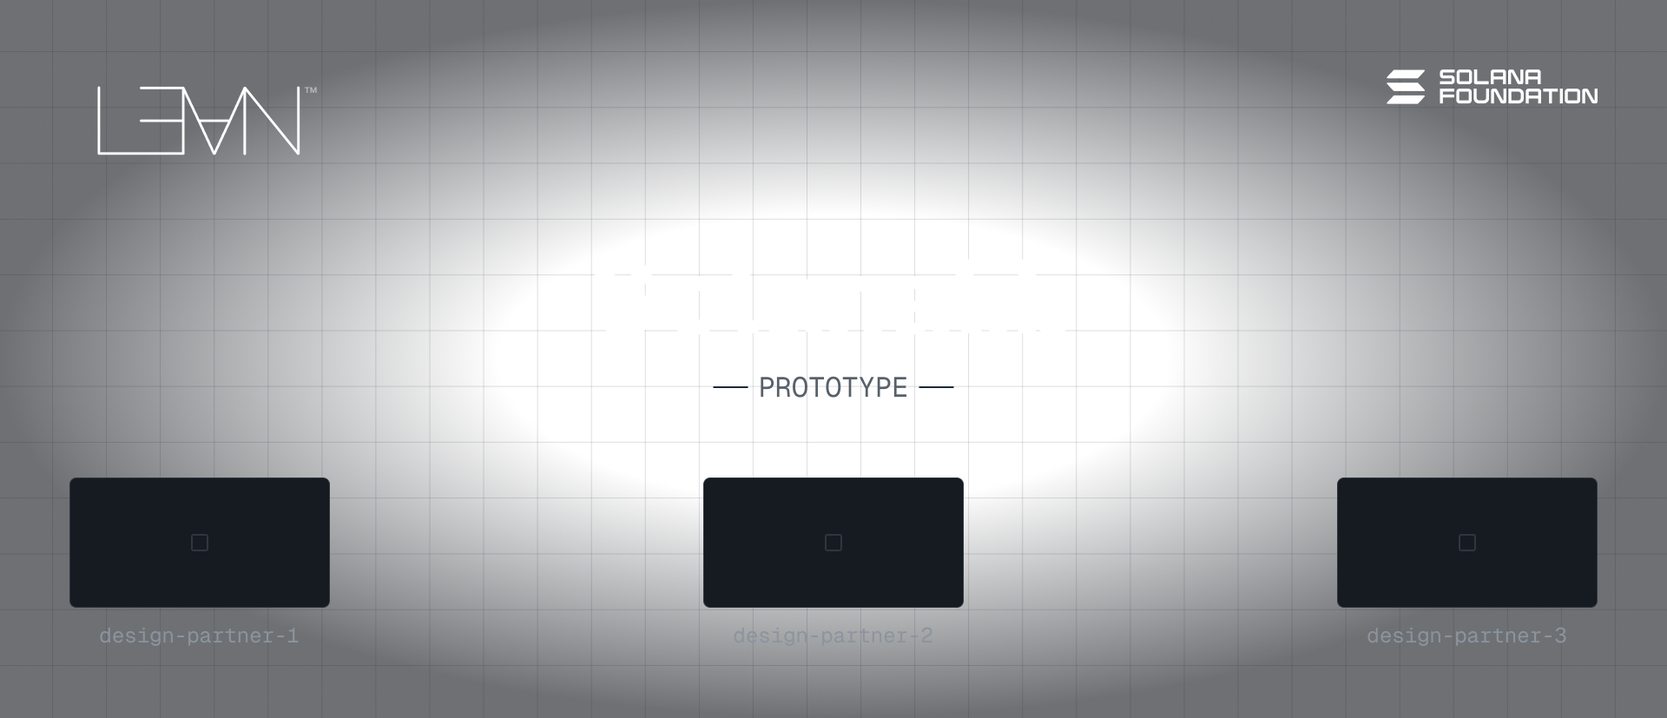
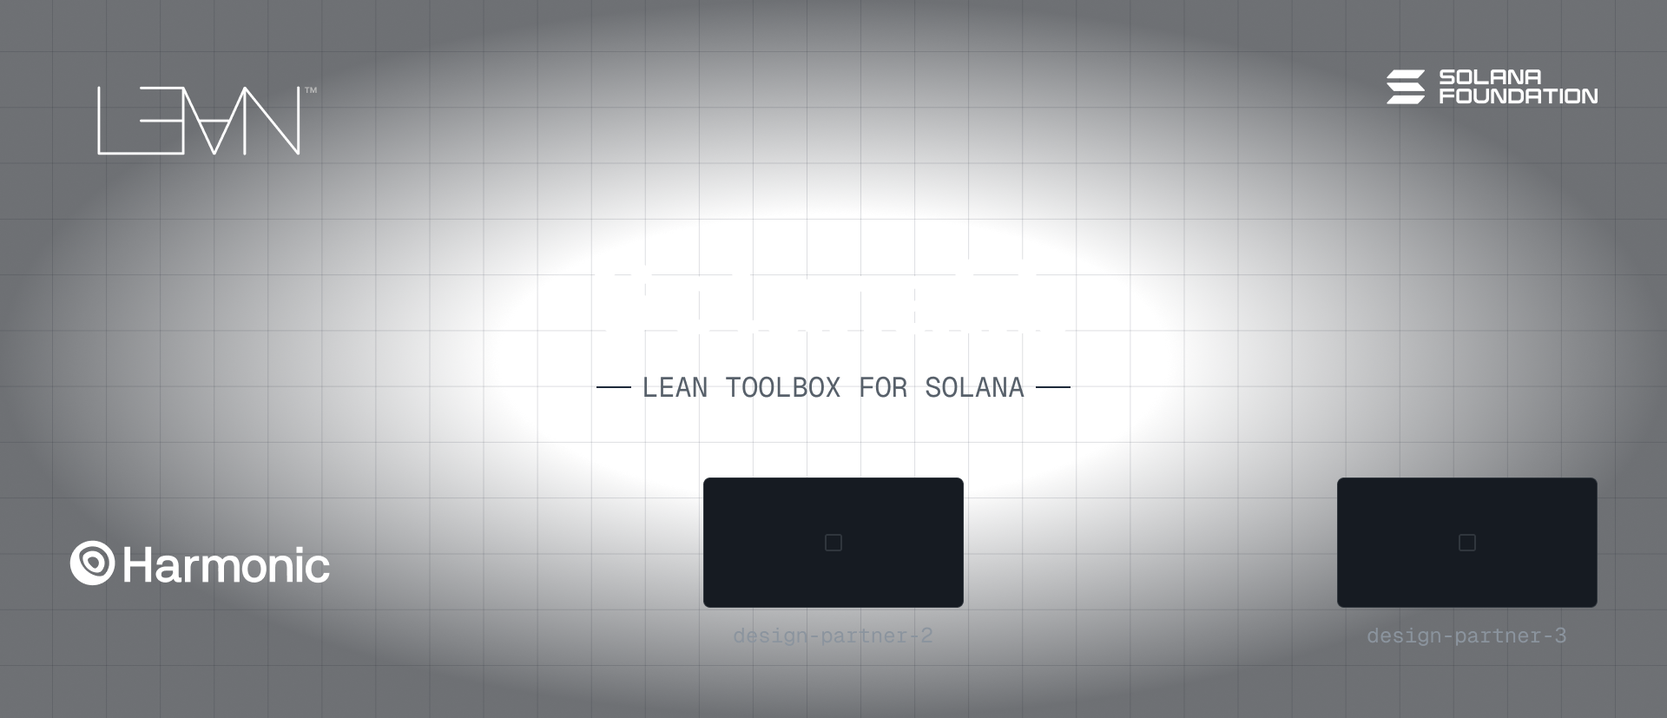
docs: update README (#8)

Changed region(s): [[0.0312, 0.6651, 0.2188, 0.8464], [0.375, 0.5139, 0.625, 0.5744], [0.0625, 0.8767, 0.1562, 0.9069]]

diff --git a/README.md b/README.md
@@ -2,7 +2,7 @@
   <picture>
     <source media="(prefers-color-scheme: dark)" srcset="https://github.com/solana-foundation/leanprover-solanalib/raw/main/docs/assets/banner-github-dark.png">
     <source media="(prefers-color-scheme: light)" srcset="https://github.com/solana-foundation/leanprover-solanalib/raw/main/docs/assets/banner-github-light.png">
-    <img alt="Solanalib" width="100%" src="https://github.com/solana-foundation/leanprover-solanalib/raw/main/docs/assets/banner-github-light.png">
+    <img alt="Solanalib: Lean toolbox for Solana" width="100%" src="https://github.com/solana-foundation/leanprover-solanalib/raw/main/docs/assets/banner-github-light.png">
   </picture>
 </div>
 
@@ -12,48 +12,78 @@
   <a href="LICENSE"><img alt="License: Apache-2.0" src="https://img.shields.io/badge/license-Apache--2.0-blue"></a>
 </p>
 
-**A [Lean 4](https://lean-lang.org/) library of formal models and verified theorems for Solana programs.** 
+**Solanalib is a [Lean 4](https://lean-lang.org/) library that models the Solana runtime and the Rust crates Solana programs are built on, so you can state and prove properties of a program without modeling Solana yourself.**
 
-Status: **purely experimental — exploring framework shape.**
+To prove anything about a Solana program you first need a precise account of what surrounds it: what an account is, when the runtime rejects a write, what a cross-program invocation does to the caller, what `spl-token` or Anchor returns for a given input. Solanalib is that account, written once, tested against the real implementations and shared. It aims to be for Solana what [Mathlib](https://leanprover-community.github.io/mathlib4_docs/) is for mathematics.
 
-The ambition is to be for Solana what [Mathlib](https://leanprover-community.github.io/mathlib4_docs/) is for mathematics — a shared, well-documented foundation that downstream verification work can build on without redefining the same primitives every time. Programs written in [Anchor](https://www.anchor-lang.com/), [Pinocchio](https://github.com/anza-xyz/pinocchio), or hand-rolled, are intended to be modelled against `Solanalib`'s formal primitives and proven correct.
+Status: **experimental.** The models are usable today; names and module layout may still change, so depend on a fixed commit.
 
 📚 **Generated docs:** <https://solana-foundation.github.io/leanprover-solanalib/>
 
 ---
 
-## Why
+## How it helps you
 
-Solana programs run with real assets at stake. Bugs in lending invariants, vesting curves, AMM math, PDA derivation, or token-supply accounting cost users — and code review is fundamentally limited as a defence: it scans for known patterns and misses what reviewers don't think to look for.
+| If you are | Solanalib gives you |
+| --- | --- |
+| **Verifying a program** as a developer or auditor | Runtime types and checks to state your invariants against, and contracts for the SDK calls your program makes. You write the proof about your logic; the definitions of accounts, rent, signers, CPI and token operations are already there. |
+| **Building a verification tool** or an AI proving agent | A shared target. Rust translated to Lean calls into `anchor-lang`, `pinocchio` or `spl-token`; Solanalib supplies a contract for each of those calls, so your tool does not ship its own model of the ecosystem. |
+| **Studying the runtime** | A readable, executable definition of transaction processing that follows Agave 4.3.2, with source notes that tie each module to the Rust it describes. |
 
-Formal verification flips the model. Instead of *reading* code looking for bugs, you *prove* the code matches a specification — a precise mathematical statement of intended behaviour. If the proof type-checks, the property holds *for every possible input*, not just the cases the reviewer happened to consider.
+## What is in it
 
-The bottleneck has historically been the cost of specs: writing them takes deep expertise, and every protocol has to reinvent the same primitives. `Solanalib` aims to lower that cost by providing the primitives — accounts, instructions, PDAs, common financial shapes — as reusable Lean definitions with theorems already proven about them.
+Everything lives in one Lake package, `solanalib`, on Lean 4.34.0 with the matching Mathlib. Import only the libraries you need.
 
-The role this library plays in the stack:
+### `Solanalib.Runtime`: the Solana runtime
 
+A model of transaction execution that follows [Agave 4.3.2](https://github.com/anza-xyz/agave/tree/a203300045b405f86c9c84308b2eae76af69ac3b): accounts and rent, transaction admission and fees, durable nonces, instruction execution, cross-program invocation, syscalls, program-derived addresses, sysvars, the program cache, and commit and rollback. It also supplies the `Pubkey`, `Account` and instruction types used by every other library here. See the [runtime guide](packages/solanalib-runtime/README.md).
+
+### `Solanalib.Specs.<Crate>`: 53 Rust crates
+
+Contracts for functions of the crates programs depend on. A contract relates the inputs and initial state of a function to its possible outcomes, including errors and panics.
+
+| Area | Crates |
+| --- | --- |
+| Frameworks | `anchor-lang`, `anchor-lang-error`, `anchor-spl`, `pinocchio` and its `system`, `token`, `token-2022`, `associated-token-account` and `log` companions |
+| Tokens | `spl-token`, `spl-token-2022`, their interface crates, associated token account, token metadata, transfer hook, `spl-memo`, `spl-pod` |
+| Serialization | `borsh`, `bytemuck` |
+| Oracles | `pyth-solana-receiver-sdk`, `pythnet-sdk`, `switchboard-on-demand` |
+| Solana SDK | 29 `solana-*` crates, including `solana-program`, `solana-account-info`, `solana-cpi`, `solana-instruction`, `solana-pubkey`, `solana-sysvar`, `solana-system-interface` and `solana-stake-interface` |
+
+Each crate root covers a listed subset of its crate, not every function. The [library catalog](packages/solanalib-specs/LIBRARIES.md) names the modeled functions, and [version compatibility](packages/solanalib-specs/VERSION_COMPATIBILITY.md) records the releases each contract was reviewed against.
+
+### `Solanalib.Contracts`: the contract vocabulary
+
+The library-neutral definitions the crate models are written in: preconditions, outcomes, callbacks, capabilities and versioning. Use it to write contracts for crates that are not covered yet. See the [contracts guide](packages/solanalib-contracts/README.md).
+
+### `Solanalib`: theorems and arithmetic
+
+The root library proves [`transfer_preserves_total`](Solanalib/Transfer.lean): every successful System transfer keeps the total lamports of the transaction unchanged, including when account indices alias. It also carries fixed-point arithmetic (`Numeric`) and recurring DeFi shapes with their proofs (`Finance`): decay and growth curves, compound interest and a withdrawal cap.
+
+## A first proof
+
+The [worked example](examples/SolanalibTest/Examples/CheckedTransfer.lean) connects an SDK contract to runtime execution. Take any instruction that satisfies the `solana-system-interface` transfer contract for seven lamports. Running the System program of the runtime on it succeeds, debits and credits the right accounts, and conserves lamports:
+
+```lean
+theorem checked_transfer (prims : Prims) (instruction : CpiInstruction)
+    (constructed : transfer_contract.ensures () args instruction ()) :
+    systemProcess mainnet prims before (frameOf instruction) = some (.ok after) ∧
+    (after.acct 0).lamports = 93 ∧ (after.acct 1).lamports = 27 ∧
+    after.lamportSum = before.lamportSum
 ```
-┌──────────────────────────────────────────────────────────────┐
-│  ON-CHAIN: Rust/Anchor/Pinocchio → compiled sBPF bytecode     │
-└───────────────┬──────────────────────────────┬───────────────┘
-                │ source-level                  │ artifact-level
-┌───────────────▼──────────────────────────────▼───────────────┐
-│  SPEC: Solanalib formal models in Lean 4                      │
-│    · high-level layer  — accounts, instructions, finance …    │
-│    · Solanalib.SBPF    — the sBPF ISA semantics: the machine  │
-│                          the deployed bytecode actually runs  │
-└──────────────────────────────────────────────────────────────┘
+
+A second theorem removes the signer flag and proves that the runtime answers `MissingRequiredSignature`. Both proofs are checked by the Lean kernel, and CI builds the file with warnings as errors. The [getting-started guide](docs/getting-started.md) walks through it line by line.
+
+## Use it in your project
+
+Add the package to your `lakefile.lean` at a fixed commit:
+
+```lean
+require solanalib from git
+  "https://github.com/solana-foundation/leanprover-solanalib" @ "<commit>"
 ```
 
-Solanalib lives entirely at the spec layer — it doesn't run on-chain. But it now models *both* ends of the refinement: the high-level shapes a protocol's logic is proven against, **and** the sBPF instruction-set semantics those programs compile down to. That lower anchor (`Solanalib.SBPF`) is a Lean port of the [OOPSLA 2025 Isabelle/HOL formalisation](https://dl.acm.org/doi/10.1145/3720414), validated against a reference VM (see [`spinoza`](https://github.com/lgalabru/spinoza), the companion harness). The eventual goal is an end-to-end chain from deployed bytecode up to protocol invariants.
-
----
-
-## Architecture
-
-The single `solanalib` Lake package uses Lean 4.34.0 and matching Mathlib. Its separately selectable [`Solanalib.Runtime`](packages/solanalib-runtime/README.md) library supplies the shared Solana public-key, account and instruction types. Runtime and SDK developments use these types. Every library under `Solanalib` or `SolanalibTest` shares the root artifact directory, so ordinary Lean imports work across the full library. Runtime account balances are `Nat` values; `Account.WF` requires the `u64` bound alongside the data-length and rent-epoch bounds.
-
-The shared [`Solanalib.Contracts`](packages/solanalib-contracts/README.md) library defines `Solanalib.Contracts.Model`. The [SDK libraries](packages/solanalib-specs/README.md) add 53 SDK and framework crate roots plus a shared core, each with a separate scenario library. Their Lean imports use the contracts and runtime vocabulary. All are selectable targets in the root package; the directories under `packages/` organize their sources. Import the required root explicitly, for example:
+Then import what you need:
 
 ```lean
 import Solanalib.Runtime
@@ -61,208 +91,57 @@ import Solanalib.Contracts
 import Solanalib.Specs.PinocchioToken
 ```
 
-The [library catalog](packages/solanalib-specs/LIBRARIES.md) records each modeled subset and its tests. Closed model proofs and native differential recordings support their stated scope; Rust implementation proofs and compiler bindings remain separate work.
+## What the models are checked against
 
-The [authoring standard](docs/model-standard.md) and [generated gap index](docs/model-gaps.md) describe how to maintain their claims and tests. Require an immutable Git revision to use the models with their recorded dependency pins.
+A model is only useful if it matches the code it describes. Each one comes with evidence you can rerun:
 
-The root library combines arithmetic and finance developments, the sBPF machine model, and a conservation theorem for the checked System transfer:
+- **Recorded native results.** The runtime model replays 79 cases recorded from native Agave. The crate models replay 12,276 records from the real Rust crates, with 2,673 negative controls that must fail.
+- **Scenario tests.** Thirteen runtime scenarios and a scenario library for each crate, all built with warnings as errors.
+- **Source notes.** Every model module is tied to the pinned Rust source it was reviewed against, by file hash and line anchor.
+- **Axiom audit.** The runtime and crate model proofs depend only on `propext`, `Classical.choice` and `Quot.sound`, with no `sorry`.
 
-```
-Solanalib/
-├── Init.lean              ← Mathlib linter activation (imports-only)
-├── Transfer.lean          ← System transfer conservation on runtime types
-├── Primitives/            ← lamport and time notations
-│   ├── Lamports.lean           UInt64 (= Lamports) + Nat (= LamportsUnchecked)
-│   └── Time.lean               UInt64 (= Timestamp) + Nat (= TimestampUnchecked)
-├── Numeric/               ← fixed-point + arithmetic infrastructure
-│   └── Fraction.lean           Q68.60 (Nat-backed spec; Fraction128 future)
-├── Finance/               ← domain abstractions for DeFi shapes
-│   ├── Decay.lean                  WindowedDecay bundled structure
-│   ├── Growth.lean                 GrowthCurve (windowed dual of WindowedDecay)
-│   ├── LinearDecay.lean            first concrete decay shape
-│   ├── MonotoneSequence.lean       unbounded monotone-up shape
-│   ├── CompoundInterest.lean       discrete compounding as a MonotoneSequence
-│   └── WithdrawalCap.lean          stateful sliding-window rate limiter
-└── SBPF/                  ← the sBPF instruction-set semantics (machine layer)
-    ├── CommType.lean               BitVec machine words (U4 … U128) + byte (de)ser
-    ├── Syntax.lean                 BpfInstruction (22 forms) + registers/ops/version
-    ├── Value.lean                  CompCert-style memory value
-    ├── Memory.lean                 byte-addressable memory + loadv / storev
-    ├── Decoder.lean                bytecode → BpfInstruction (full opcode table)
-    ├── State.lean                  registers, call stack, BpfState result
-    ├── Interpreter.lean            step + fuel-bounded bpfInterp
-    └── Verifier.lean               verifyInstr + step-safety theorem (Lemma 6.4)
-```
+The boundary is stated plainly. The contracts are mathematical models of pinned releases. The evidence above supports their correspondence with the Rust code; it is not a proof about the Rust implementations or the compiled program. The runtime [trust boundary](packages/solanalib-runtime/TRUST.md) lists what the bank is assumed to supply, [BINDINGS.md](packages/solanalib-specs/BINDINGS.md) lists what a binding to real Rust must establish, and the [gap index](docs/model-gaps.md) lists every known gap.
 
-The boundaries are deliberate:
+## Who uses it
 
-- **`Primitives/`** keeps the lamport and time notations used by arithmetic and finance. Solana account, key and instruction values come from **`Solanalib.Runtime`** in `packages/solanalib-runtime/`.
-- **`Numeric/`** is the numeric backbone — every fixed-point or refined-int type belongs here, separate from domain code so it stays reusable.
-- **`Transfer.lean`** proves `Solanalib.Runtime.transfer_preserves_total` for every successful `sysTransfer`, including aliased account indices. The success premise includes the actual runtime checks; the proof does not redefine the transfer.
-- **`Finance/`** is the first domain layer — financial shapes that recur across DeFi: decay curves, growth curves, and (future) AMM math, lending invariants, oracle aggregation.
-- **`SBPF/`** is the machine layer — a faithful Lean port of the [OOPSLA 2025](https://dl.acm.org/doi/10.1145/3720414) Isabelle/HOL sBPF semantics (all 22 instruction forms, the decoder, the small-step interpreter, and the verifier). Unlike the `Nat`-backed spec layers above, it models bit-precise machine words with `BitVec` (signed division, sign-extension, shifts), because the bytecode it describes is bit-precise. It is the concrete machine the high-level shapes ultimately refine down to.
+- **[Harmonic](https://harmonic.fun)** contributed the runtime and library models and uses Solanalib under the hood to verify Solana programs.
+- **[Lusterna](https://lusterna.sh)**, by Certora, has AI agents translate Rust to Lean 4 and prove properties that the Lean kernel checks. It uses Solanalib under the hood for Solana programs.
 
-The finance and numeric layers use the lamport and time notations plus `Init.lean`. `Transfer.lean` imports the runtime System processor. `SBPF/` is self-contained (it models the machine, not the protocol). For example, promoting `Fraction` to a bounded `Fraction128` does not force `Finance/Decay.lean` to change.
+## Build and check
 
----
-
-## Design patterns
-
-These are the patterns the codebase has converged on. They're documented in detail in [`skills/lean-best-practices/SKILL.md`](skills/lean-best-practices/SKILL.md).
-
-### 1. **Bundled structures, not type-classes**, for domain shapes
-
-When a concept has several properties that must hold together (e.g. "a function that decays from peak to zero, monotonically, in a window"), we use a **bundled structure** with the function and proofs embedded:
-
-```lean
-structure WindowedDecay where
-  tBegin tEnd peak : Nat
-  apply : Nat → Nat
-  bounded : ∀ t, apply t ≤ peak
-  at_begin : tBegin < tEnd → apply tBegin = peak
-  at_end : apply tEnd = 0
-  antitone_in_window : …
-```
-
-Concrete shapes provide a `toX` constructor that constructs the bundle by proving each obligation:
-
-```lean
-def LinearDecay.toWindowedDecay (tBegin tEnd peak : Nat) : WindowedDecay := { … }
-```
-
-Generic theorems are methods on the structure (`d.complementary`, `d.complementary_le_peak`). No type-class elaboration surprises; matches Mathlib's `OrderHom`, `MulHom`, `LinearMap`.
-
-### 2. **Bounded types live alongside unbounded spec aliases**
-
-Solana fields are `u64` on-chain; mathematical reasoning wants unbounded `Nat`. We expose both:
-
-```lean
-notation "Lamports"          => UInt64   -- strict on-chain shape
-notation "LamportsUnchecked" => Nat      -- spec layer; omega-friendly
-```
-
-These notations support numeric and finance proofs. Runtime accounts use `Nat` balances directly, with `Account.WF` recording `lamports < U64_LIMIT`. The checked setters return errors for underflow, overflow or invalid mutation privileges. A theorem about a successful call uses that real result as its premise:
-
-```lean
-theorem transfer_preserves_total
-    (transferred : sysTransfer context before source destination amount = .ok after) :
-    after.lamportSum = before.lamportSum := …
-```
-
-The [complete theorem](Solanalib/Transfer.lean) proves this for arbitrary states and amounts. Numeric source-representation bounds remain separate when the mathematical result does not need them.
-
-### 3. **`@[ext]` on every structure, `@[simp]` on every projection**
-
-Lets `ext; simp` close most structural-equality proofs uniformly. Skim any test file for examples.
-
-### 4. **Layered model: spec layer in `Nat`, bounded refinement separate**
-
-`Fraction = Q68.60` is currently `Nat`-backed at the spec layer for arithmetic clarity. The bounded `Fraction128` refinement (matching the on-chain `u128` shape) lives in a separate type with `.toNat` bridge lemmas — same architectural pattern as `Lamports` / `LamportsUnchecked`. This follows the [seL4](https://sel4.systems/) / [CompCert](https://compcert.org/) discipline: prove on the abstract model, refine to the bounded representation as a separate step.
-
----
-
-## Quick-start
-
-Install [`elan`](https://github.com/leanprover/elan), [`just`](https://github.com/casey/just) and [`uv`](https://docs.astral.sh/uv/getting-started/installation/), then run commands from this directory. The [getting-started guide](docs/getting-started.md) walks through a checked System-transfer proof using the runtime and an SDK contract.
+Install [`elan`](https://github.com/leanprover/elan), [`just`](https://github.com/casey/just) and [`uv`](https://docs.astral.sh/uv/getting-started/installation/), then run from the repository root:
 
 ```sh
 just setup             # fetch committed dependencies, Mathlib cache and Python tools
-just build             # root library and sBPF oracle
+just build             # root library
 just test              # root regressions and System transfer conservation
-just test-examples     # the worked tutorial, with warnings as errors
-just test-runtime      # all thirteen runtime scenarios and offline controls
-just test-specs        # contracts and every SDK production/scenario library
-just test-conformance  # both authenticated recordings, replay and negative controls
+just test-examples     # the worked example, with warnings as errors
+just test-runtime      # runtime scenarios and offline controls
+just test-specs        # contracts and every crate library
+just test-conformance  # replay both native recordings with negative controls
 just audit             # proof, source, generator, ownership and loading checks
-just docs              # the complete production documentation site
-just check-all         # every regular suite above
+just docs              # the documentation site
+just check-all         # every suite above
 ```
 
-The [complete test index](docs/tests.md) lists every scenario, checker, Python control suite and native driver. Fresh native reproduction has separate `test-native-runtime` and `test-native-library` recipes; the [extension walkthroughs](docs/extending.md) give their archive, compiler and evidence arguments. Use `just --list` for all targets.
-
-CI checks the root library, tutorial, runtime, contracts, all 108 SDK production and scenario libraries, generated evidence, source audits and both recorded conformance suites on pull requests and pushes to main. Lean builds use `--wfail`. The [CI guide](docs/ci.md) describes the jobs, cache inputs and configured timeouts.
-
----
-
-## What's in it today
-
-Inventory of the verified surface as of this commit:
-
-| Module | Definitions | Theorems |
-|---|---|---|
-| `Primitives.Lamports` | `Lamports`, `LamportsUnchecked`, `Lamports.perSol` | — |
-| `Numeric.Fraction` | `Fraction`, `scale`, `zero`, `one`, `fromNat`, `toFloor`, `add`, `sub`, `mul`, `div`, `ofLamports`, `toLamports?`, order instances | 14 (monoid, ordering, round-trip, sub/add cancel, div_one) |
-| `Runtime.Basic`, `Runtime.Account` | Fixed-size `Pubkey`, `Account`, `Account.WF`, rent state | Runtime representations and account/rent facts |
-| `Runtime.Message`, `Runtime.Syscall`, `Runtime.Context` | Compiled instructions, `CpiInstruction`, `Frame`, `TxState` | Preparation, privilege and execution facts in the runtime libraries |
-| `Runtime.System`, `Transfer` | `sysTransfer`, checked debit and credit | `transfer_preserves_total`, `sysTransferVerified_preserves_total` |
-| `Finance.Decay` | `WindowedDecay`, `WindowedDecay.complementary` | 4 (inherited via composition) |
-| `Primitives.Time` | `Timestamp`, `TimestampUnchecked` | — |
-| `Finance.LinearDecay` | `LinearDecay.value`, `LinearDecay.toWindowedDecay` | 4 (P1–P3b: bounded, antitone, value-at-begin, value-at-end) |
-| `Finance.MonotoneSequence` | `MonotoneSequence` | 2 (`apply_zero_le`, `apply_le_of_le`) |
-| `Finance.CompoundInterest` | `balance`, `toMonotoneSequence` | 5 (boundary, unit-multiplier identity, one-step monotonicity, multi-step monotonicity, balance ≥ principal) |
-| `Finance.WithdrawalCap` | `WithdrawalCap`, `Invariant`, `IsElapsed`, `remaining`, `TryAdd`, `tryAdd` | 5 (`remaining_le_capacity`, `tryAdd_preserves_invariant`, `tryAdd_rejects_over_cap_midwindow` + `_at_reset`, `interval_reset_idempotent`) |
-| `Finance.Growth` | `GrowthCurve`, `WindowedDecay.toComplementaryGrowthCurve` | 4 (embedded; inherited at constructor time) |
-| `SBPF.{CommType,Syntax,Value,Memory}` | `BitVec` words, `BpfInstruction` (22 forms), `Val`, `loadv`/`storev` | data layer |
-| `SBPF.Decoder` | `decode`, `findInstr` (full opcode table) | round-trip tests |
-| `SBPF.Interpreter` | `step`, `bpfInterp` + per-class evaluators | differential testing (below) |
-| `SBPF.Verifier` | `verifyInstr`, `step_ne_err` (Lemma 6.4) | 9 |
-
-Run `scripts/coverage.sh` for the live def/theorem tally.
-
-The two layers are validated differently, on purpose. The **high-level / finance** shapes carry per-definition theorems — a high theorem-to-def ratio there is the signal that we're proving properties faster than we add surface. The **`SBPF/` machine layer** is mostly executable definitions (the interpreter is a faithful model, not a thing to prove theorems *about* per se); its correctness is established two ways instead: (1) the `step_ne_err` **safety theorem** — a verifier-accepted instruction never faults to the `err` state ([Lemma 6.4 of the paper](https://dl.acm.org/doi/10.1145/3720414)) — and (2) **differential testing** against a reference sBPF VM via [`spinoza`](https://github.com/lgalabru/spinoza), which has run tens of thousands of randomized programs through both this Lean interpreter and the VM with zero divergences.
-
----
-
-## Roadmap
-
-Listed roughly in order of how foundational they are; not all need to be done before the library is useful, but all are flagged as known gaps.
-
-### Numeric foundation
-
-- [ ] **`Fraction.mul_assoc` error bound.** Truncating `bits / scale` after each multiplication introduces ≤ 1 ULP of error; left-associative and right-associative multiplications can differ by `(a + c) / scale` in the worst case. The theorem statement is straightforward; the proof needs careful `Nat` lemmas about double-truncation.
-- [ ] **`Fraction128` bounded refinement.** Mirror of the `Lamports` / `LamportsUnchecked` story: a `UInt128`-backed `Fraction128` plus `.toNat` bridge. Lean 4 doesn't have native `UInt128`; modelled as `Fin (2^128)` or a `(lo, hi)` `UInt64` pair.
-- [ ] **`Fraction.divCeil`** — round-up variant for slippage / collateralisation calculations.
-- [ ] **Pow / `Real.exp` correspondence** — for compound interest, we'll want a theorem bounding `pow_fraction r n` against the mathematical `e^(r·n)`. Requires importing more of Mathlib.
-
-### Domain primitives
-
-- [x] **`Finance.CompoundInterest`** — landed: discrete-compounding `balance` consuming a `Fraction` multiplier, bundled into a `MonotoneSequence`. Open follow-up: truncated-Taylor approximation matching Kamino's `approximate_compounded_interest`, plus an error-bound theorem connecting the approximation to the exact compounding modelled here.
-- [x] **`Finance.WithdrawalCap`** — landed: stateful sliding-window rate limiter; four theorems pin the bug classes auditors check for (saturation, invariant escape, off-by-one on the boundary, missed accumulator reset on interval rollover).
-- [ ] **`Finance.AMM`** — constant-product (`x · y = k`), then weighted pools, then concentrated liquidity. `IsAMM` becomes a `class` (this is one of the places where typeclass dispatch genuinely earns its keep — multiple instance types share an interface).
-- [ ] **`Finance.Lending`** — collateralisation-ratio invariants, liquidation conditions, interest accrual.
-- [ ] **`Primitives.Slot`, `Primitives.Epoch`** — `UInt64`-backed clock primitives.
-- [ ] **`Primitives.Hash`** — 32-byte cryptographic hash with collision-resistance as an axiom (for unsigned theorems) and refinement to specific hash functions (SHA-256, Keccak) later.
-
-### Solana semantics
-
-- [x] **Shared runtime types and transfer conservation** — public keys, accounts and instruction values use `Solanalib.Runtime`; [System transfer conservation](Solanalib/Transfer.lean) follows from successful checked execution and covers aliased indices.
-
-- [x] **PDA model** — [`Solanalib.Runtime.Prims`](packages/solanalib-runtime/Solanalib/Runtime/Prims.lean) defines address derivation and bump search. Cryptographic functions remain explicit parameters; this does not verify a concrete hash or curve implementation.
-- [x] **Sysvar model** — [`Solanalib.Runtime.Sysvar`](packages/solanalib-runtime/Solanalib/Runtime/Sysvar.lean) and [`Profile`](packages/solanalib-runtime/Solanalib/Runtime/Profile.lean) model the selected clock/rent and instructions-sysvar behavior. Bank values and profile correspondence remain assumptions.
-- [x] **Program-result model** — [`Solanalib.Runtime.Error`](packages/solanalib-runtime/Solanalib/Runtime/Error.lean) supplies instruction and transaction errors used by the `Except` outcomes of the model. Source ABI bindings are separate obligations.
-- [x] **Transaction model** — [`Solanalib.Runtime.Transaction`](packages/solanalib-runtime/Solanalib/Runtime/Transaction.lean) models admission, execution, fees, commit and rollback. The [trust boundary](packages/solanalib-runtime/TRUST.md) records bank-supplied checks and the remaining successful durable-nonce advancement gap.
-- [x] **CPI runtime model** — [`Solanalib.Runtime.Cpi`](packages/solanalib-runtime/Solanalib/Runtime/Cpi.lean) and [`Exec`](packages/solanalib-runtime/Solanalib/Runtime/Exec.lean) model preparation, account synchronization and invocation. Callee behavior stays opaque behind explicit contracts; a callee effect requires its own implementation proof.
-
-### Execution refinement and verification
-
-- [x] **sBPF semantics in Lean (`Solanalib.SBPF`).** Landed: a Lean port of the [OOPSLA 2025 Isabelle/HOL formalisation](https://dl.acm.org/doi/10.1145/3720414) — all 22 instruction forms, the decoder, the small-step interpreter, and the verifier with the `step_ne_err` safety theorem (Lemma 6.4). Validated against a reference VM through the [`spinoza`](https://github.com/lgalabru/spinoza) harness (`spinoza validate`), which differentially tests the Lean interpreter against an executable sBPF VM; `spinoza lift` emits a deployed program's `.text` as an importable `BpfBin` term.
-- [ ] **Refinement from `SBPF/` up to the spec layers.** The pieces exist at both ends; the open work is the connecting theorem — e.g. a lifted program's `bpfInterp` result preserves a `Finance.WithdrawalCap` invariant. Also outstanding from the port: the x86-64 JIT correspondence, and reconciling the PQR high-multiply edge case against a second oracle (agave `solana-sbpf`).
-- [ ] **Aeneas integration (source-level path).** The complement to the artifact-level sBPF route above: pick one pure-math Rust function (e.g. `kfarms::get_withdrawal_penalty_bps`), run `cargo charon --preset=aeneas`, run `aeneas -backend lean`, import the generated Lean, prove `theorem rust_impl_refines_spec`. If this works end-to-end on one realistic module, we have a defensible refinement story for the algorithmic core of Solana programs.
-
-### Library hygiene
-
-- [ ] **`@[simps]` integration.** Currently we hand-write projection lemmas — Mathlib's `@[simps]` macro auto-generates them. Saves boilerplate as the codebase grows.
-- [ ] **`shake` integration.** Mathlib's unused-imports detector. Deferred because the current `notation`-heavy style doesn't play well with shake's import-usage analysis; revisit when we have ≥ 10 leaf modules.
-- [ ] **Mathlib version-bump automation.** `update.yml` workflow currently runs `lake update` monthly; add a follow-on step that bumps `lean-toolchain` to whatever Mathlib pins.
-
----
+The [test index](docs/tests.md) lists every scenario and checker, and the [CI guide](docs/ci.md) describes the jobs that run on pull requests. Use `just --list` for all targets.
 
 ## Contributing
 
-Read [CONTRIBUTING.md](CONTRIBUTING.md) for model boundaries, source review, witnesses, style, copyright and signed commits. Follow [Extending Solanalib](docs/extending.md) for complete runtime and SDK contribution walkthroughs, including generated evidence, native replay and gap records.
-
----
+Missing a crate or a function? [Extending Solanalib](docs/extending.md) walks through adding a runtime rule or an SDK contract with its tests and native evidence. Read [CONTRIBUTING.md](CONTRIBUTING.md) for model boundaries, source review, style and signed commits, and the [model standard](docs/model-standard.md) for what a model must record.
 
 ## License
 
 Apache-2.0. See [`LICENSE`](LICENSE).
+
+---
+
+<p align="center">
+  <a href="https://solana-foundation.github.io/leanprover-solanalib/">Docs</a> ·
+  <a href="docs/getting-started.md">Getting started</a> ·
+  <a href="packages/solanalib-specs/LIBRARIES.md">Library catalog</a> ·
+  <a href="https://harmonic.fun">Harmonic</a> ·
+  <a href="https://lusterna.sh">Lusterna</a> ·
+  <a href="https://lean-lang.org/">Lean</a> ·
+  <a href="https://solana.org">Solana Foundation</a>
+</p>
